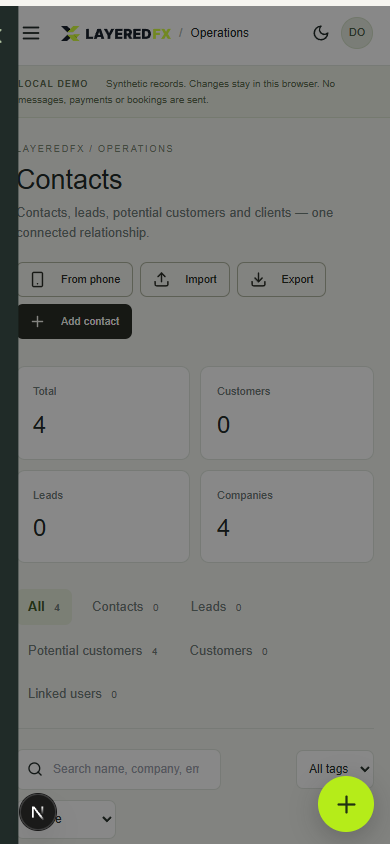
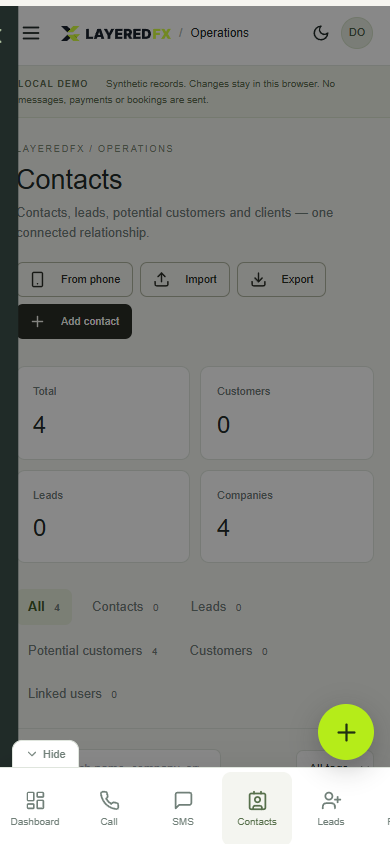
Fix duplicate branding and use full dashboard width

Changed region(s): [[0.0, 0.8318, 1.0, 1.0]]

diff --git a/components/operations/shell.tsx b/components/operations/shell.tsx
@@ -11,5 +11,5 @@ import {MobileBottomNav} from './mobile-bottom-nav';
 import {useOperations} from './provider';
 import {Button,DownloadButton,PageTitle,Panel,money,dateLabel} from './shared';
 import {needsNextStep,stats} from '@/lib/operations/engine.mjs';
-export function OperationsShell({children}:{children:React.ReactNode}){const path=usePathname();const {actor,mode,state,busy,error,notice,reload,clearError}=useOperations();const [mobile,setMobile]=useState(false);const [collapsed,setCollapsed]=useState(false);useEffect(()=>{setCollapsed(localStorage.getItem('lfx:dashboard:sidebar-collapsed')==='true');},[]);const [theme,setTheme]=useState('light');useEffect(()=>{setTheme(localStorage.getItem('lfx:dashboard:theme')||'light');},[]);return <div className={`lfx ops ${theme==='dark'?'dark':''} ${collapsed?'ops-sidebar-collapsed':''}`} data-role={actor.role}><aside id="dashboard-sidebar" className={`ops-sidebar ${mobile?'is-open':''}`}><Link href="/admin" className="ops-brand" aria-label="LayeredFX dashboard"><Image className="ops-brand-full" src={brand.dashboard.dark} alt="LayeredFX" width={519} height={72} priority style={{width:"100%",height:"auto"}}/><Image className="ops-brand-icon" src={brand.app} alt="" width={36} height={36}/><small>THE OPERATIONS STUDIO</small></Link><button className="ops-mobile-close" aria-label="Close navigation" onClick={()=>setMobile(false)}><X/></button><nav aria-label="Dashboard navigation">{dashboardNavigation.map(group=><section key={group.label}><p className="ops-sidebar-label">{group.label}</p>{group.items.map(n=>{const Icon=n.icon;const active=n.href==='/admin'?path===n.href:path.startsWith(n.href);return <Link key={n.href} href={n.href} className={active?'active':''} aria-label={n.label} title={collapsed?n.label:undefined} aria-current={active?'page':undefined} onClick={()=>setMobile(false)}><Icon size={18}/><span className="ops-nav-text">{n.label}</span>{n.label==='Pipeline'&&<span className="ops-nav-count">{state.deals.filter(d=>!d.archivedAt).length}</span>}</Link>;})}</section>)}</nav><div className="ops-sidebar-bottom"><p>Beautiful work.<br/><b>Thoughtfully organized.</b></p><Link href="/" aria-label="View website" title="View website"><span className="ops-nav-text">View website</span> <ArrowUpRight size={15}/></Link><small>{mode==='demo'?'Local demonstration':'LayeredFX data connection'}</small></div></aside>{mobile&&<button className="ops-nav-backdrop" aria-label="Close navigation" onClick={()=>setMobile(false)}/>}<div className="ops-app"><header className="ops-topbar"><button className="ops-sidebar-toggle" aria-controls="dashboard-sidebar" aria-expanded={!collapsed} aria-label={collapsed?'Expand sidebar':'Collapse sidebar'} title={collapsed?'Expand sidebar':'Collapse sidebar'} onClick={()=>{const next=!collapsed;setCollapsed(next);localStorage.setItem('lfx:dashboard:sidebar-collapsed',String(next));}}>{collapsed?<PanelLeftOpen size={20}/>:<PanelLeftClose size={20}/>}</button><button className="ops-menu" aria-label="Open navigation" onClick={()=>setMobile(true)}><Menu size={22}/></button><div><Image src={brand.dashboard[theme==='dark'?'dark':'light']} alt="LayeredFX" width={519} height={72} style={{display:"inline-block",width:110,height:"auto"}}/><span className="ops-topbar-divider">/</span><span>Operations</span></div><div className="ops-user"><button aria-label="Toggle dashboard theme" onClick={()=>{const next=theme==='dark'?'light':'dark';setTheme(next);localStorage.setItem('lfx:dashboard:theme',next);}}>{theme==='dark'?<Sun size={18}/>:<Moon size={18}/>}</button><span className="ops-save-status" role="status">{busy?'Saving…':notice||'Ready'}</span><span className="ops-avatar">{actor.name.split(' ').map(x=>x[0]).slice(0,2).join('')}</span><span>{actor.name}<small>{actor.role}</small></span>{mode==='supabase'&&<button onClick={async()=>{await fetch('/api/operations/auth/logout',{method:'POST',headers:{'Content-Type':'application/json'},body:'{}'});location.assign('/admin/login');}}>Sign out</button>}</div></header>{mode==='demo'&&<div className="ops-demo-banner"><b>LOCAL DEMO</b> Synthetic records. Changes stay in this browser. No messages, payments or bookings are sent.</div>}{error&&<div className="ops-global-error" role="alert"><p>{error}</p><div><button onClick={()=>void reload()}>Reload latest data</button><button onClick={clearError}>Dismiss</button></div></div>}<main className="ops-main" aria-busy={busy}>{children}</main><footer className="ops-app-footer">LayeredFX Operations<span>{mode==='demo'?'Preview data':'Authenticated data'} · Revision {state.revision}</span></footer></div><QuickActions/><MobileBottomNav/></div>;}
+export function OperationsShell({children}:{children:React.ReactNode}){const path=usePathname();const {actor,mode,state,busy,error,notice,reload,clearError}=useOperations();const [mobile,setMobile]=useState(false);const [collapsed,setCollapsed]=useState(false);useEffect(()=>{setCollapsed(localStorage.getItem('lfx:dashboard:sidebar-collapsed')==='true');},[]);const [theme,setTheme]=useState('light');useEffect(()=>{setTheme(localStorage.getItem('lfx:dashboard:theme')||'light');},[]);return <div className={`lfx ops ${theme==='dark'?'dark':''} ${collapsed?'ops-sidebar-collapsed':''}`} data-role={actor.role}><aside id="dashboard-sidebar" className={`ops-sidebar ${mobile?'is-open':''}`}><Link href="/admin" className="ops-brand" aria-label="LayeredFX dashboard"><Image className="ops-brand-full" src={brand.dashboard.dark} alt="LayeredFX" width={519} height={72} priority style={{width:"100%",height:"auto"}}/><Image className="ops-brand-icon" src={brand.app} alt="" width={36} height={36}/><small>THE OPERATIONS STUDIO</small></Link><button className="ops-mobile-close" aria-label="Close navigation" onClick={()=>setMobile(false)}><X/></button><nav aria-label="Dashboard navigation">{dashboardNavigation.map(group=><section key={group.label}><p className="ops-sidebar-label">{group.label}</p>{group.items.map(n=>{const Icon=n.icon;const active=n.href==='/admin'?path===n.href:path.startsWith(n.href);return <Link key={n.href} href={n.href} className={active?'active':''} aria-label={n.label} title={collapsed?n.label:undefined} aria-current={active?'page':undefined} onClick={()=>setMobile(false)}><Icon size={18}/><span className="ops-nav-text">{n.label}</span>{n.label==='Pipeline'&&<span className="ops-nav-count">{state.deals.filter(d=>!d.archivedAt).length}</span>}</Link>;})}</section>)}</nav><div className="ops-sidebar-bottom"><p>Beautiful work.<br/><b>Thoughtfully organized.</b></p><Link href="/" aria-label="View website" title="View website"><span className="ops-nav-text">View website</span> <ArrowUpRight size={15}/></Link><small>{mode==='demo'?'Local demonstration':'LayeredFX data connection'}</small></div></aside>{mobile&&<button className="ops-nav-backdrop" aria-label="Close navigation" onClick={()=>setMobile(false)}/>}<div className="ops-app"><header className="ops-topbar"><button className="ops-sidebar-toggle" aria-controls="dashboard-sidebar" aria-expanded={!collapsed} aria-label={collapsed?'Expand sidebar':'Collapse sidebar'} title={collapsed?'Expand sidebar':'Collapse sidebar'} onClick={()=>{const next=!collapsed;setCollapsed(next);localStorage.setItem('lfx:dashboard:sidebar-collapsed',String(next));}}>{collapsed?<PanelLeftOpen size={20}/>:<PanelLeftClose size={20}/>}</button><button className="ops-menu" aria-label="Open navigation" onClick={()=>setMobile(true)}><Menu size={22}/></button><div className="ops-topbar-title">Operations</div><div className="ops-user"><button aria-label="Toggle dashboard theme" onClick={()=>{const next=theme==='dark'?'light':'dark';setTheme(next);localStorage.setItem('lfx:dashboard:theme',next);}}>{theme==='dark'?<Sun size={18}/>:<Moon size={18}/>}</button><span className="ops-save-status" role="status">{busy?'Saving…':notice||'Ready'}</span><span className="ops-avatar">{actor.name.split(' ').map(x=>x[0]).slice(0,2).join('')}</span><span>{actor.name}<small>{actor.role}</small></span>{mode==='supabase'&&<button onClick={async()=>{await fetch('/api/operations/auth/logout',{method:'POST',headers:{'Content-Type':'application/json'},body:'{}'});location.assign('/admin/login');}}>Sign out</button>}</div></header>{mode==='demo'&&<div className="ops-demo-banner"><b>LOCAL DEMO</b> Synthetic records. Changes stay in this browser. No messages, payments or bookings are sent.</div>}{error&&<div className="ops-global-error" role="alert"><p>{error}</p><div><button onClick={()=>void reload()}>Reload latest data</button><button onClick={clearError}>Dismiss</button></div></div>}<main className="ops-main" aria-busy={busy}>{children}</main><footer className="ops-app-footer">LayeredFX Operations<span>{mode==='demo'?'Preview data':'Authenticated data'} · Revision {state.revision}</span></footer></div><QuickActions/><MobileBottomNav/></div>;}
 export function OperationsOverview(){const {state,actor,mode}=useOperations();const s=stats(state.deals);const activePlans=new Set(state.plans.filter(p=>!p.archived_at).map(p=>p.id));const tasks=state.tasks.filter(t=>activePlans.has(t.plan_id)&&t.status!=='complete');return <><PageTitle title="Make room for great work." description="Your opportunities, documents, and installation plans—connected in one place."><DownloadButton name="layeredfx-operations-export.json" data={{exportedAt:new Date().toISOString(),mode,state}} label="Export visible data"/></PageTitle><div className="ops-overview-hero"><div><p className="ops-eyebrow">THE NEXT LAYER</p><h2>From first conversation<br/>to the final finish.</h2><p>Know what comes next. Keep the context close.</p><Button asChild variant="light"><Link href="/admin/pipeline">Open pipeline <ArrowUpRight size={16}/></Link></Button></div><div className="ops-hero-metric"><span>Open opportunities</span><b>{money(s.openValue)}</b><small>{s.openCount} active opportunities</small></div></div><div className="ops-stats"><div><span>Needs a next step</span><b>{state.deals.filter(d=>!d.archivedAt&&needsNextStep(d)).length}</b></div><div><span>Workspace documents</span><b>{state.documents.filter(d=>!d.archived_at).length}</b></div><div><span>Active plans</span><b>{state.plans.filter(p=>!p.archived_at).length}</b></div><div><span>Open tasks</span><b>{tasks.length}</b></div></div><div className="ops-two-columns"><Panel title="Upcoming tasks" action={<Link href="/admin/plans">View plans</Link>}>{tasks.slice().sort((a,b)=>(a.due_date||'9999').localeCompare(b.due_date||'9999')).slice(0,6).map(t=><Link className="ops-record-row" key={t.id} href={`/admin/plans/${t.plan_id}`}><div><b>{t.title}</b><small>{state.plans.find(p=>p.id===t.plan_id)?.name}</small></div><span>{dateLabel(t.due_date)}</span></Link>)}{!tasks.length&&<p className="ops-muted">No open tasks yet.</p>}</Panel><Panel title="Your documents" action={<Link href="/admin/workspace">Open workspace</Link>}>{state.documents.filter(d=>!d.archived_at).slice(0,5).map(d=><Link className="ops-record-row" key={d.id} href={`/admin/workspace/${d.id}`}><FileText size={17}/><div><b>{d.title}</b><small>{d.owner_name} · {d.scope}</small></div><ArrowUpRight size={16}/></Link>)}<p className="ops-muted">Signed in as {actor.name}. Private documents and plans are filtered by access before being returned from the live API.</p></Panel></div></>;}

diff --git a/components/admin/dashboard.css b/components/admin/dashboard.css
@@ -23,7 +23,11 @@
 .ops-sidebar nav::-webkit-scrollbar-thumb{background:#657d6b;border-radius:999px}
 .ops-sidebar nav::-webkit-scrollbar-thumb:hover{background:#a4bc8d}
 .ops-sidebar nav::-webkit-scrollbar-button{display:none}
-.ops-brand-icon{display:none}
+.ops .ops-brand-icon{display:none}
+.ops .ops-main{width:100%;max-width:none;margin:0;padding-inline:28px}
+.ops .ops-topbar{justify-content:flex-start}
+.ops .ops-topbar .ops-user{margin-left:auto}
+@media(max-width:760px){.ops .ops-main{padding-inline:16px}}
 .ops-sidebar nav a .ops-nav-text{background:none;color:inherit;border-radius:0;padding:0;margin:0;min-width:0;font:inherit}
 .ops-sidebar nav a svg{flex-shrink:0}
 .ops-sidebar-toggle{display:inline-flex;align-items:center;justify-content:center;width:36px;height:36px;flex-shrink:0;border:1px solid var(--ops-line);border-radius:8px;background:var(--ops-surface);color:var(--ops-ink)}

diff --git a/docs/reviews/current-review.md b/docs/reviews/current-review.md
@@ -1,4 +1,14 @@
-# LayeredFX integration review — mobile menu checkpoint, 2026-09-10
+# LayeredFX integration review — width and logo checkpoint, 2026-09-10
+
+| Severity | File / evidence | Fix | Verification / remaining blockers |
+|---|---|---|---|
+| LOW | `components/admin/dashboard.css`: `.lfx img` overrode the less-specific icon hide rule, showing both sidebar images | Scope the default hidden app icon to `.ops .ops-brand-icon`; preserve collapsed-state override | Exactly one visible brand image verified expanded, collapsed and mobile |
+| LOW | `components/operations/shell.tsx`: redundant top-bar logo | Remove top-bar image and divider; left-align Operations alongside the toggle | No top-bar images in browser checks |
+| LOW | `.ops-main` inherited a 1750px centered width cap | Full available width with 28px desktop gutters, 16px mobile gutters | Customers, Messages and Dashboard verified at 3808px wide, expanded and collapsed; mobile overflow check passed |
+
+Validation: npm install, all 131 tests, typecheck, lint and production build passed (existing lint warnings remain). Exact output: `logs/layout-install.txt`, `logs/*-verified.txt`. Browser evidence: `logs/layout-browser.json`, `screenshots/layout-*.png`. Homepage logo remains visible. Previous backend/provider limitations below are unchanged.
+
+## Previous mobile menu checkpoint
 
 | Severity | File / evidence | Fix | Verification / remaining blockers |
 |---|---|---|---|

diff --git a/docs/logos/README.md b/docs/logos/README.md
@@ -3,7 +3,7 @@
 Original user-supplied assets are preserved here. Runtime copies are served from `/brand/` in `public/brand`; `lib/brand.ts` is the shared mapping. Dark/light filenames describe the background the artwork is intended for.
 
 - Public header/footer use the light outline logo; the shared Logo component supports the dark outline variant with `inverted`.
-- Dashboard sidebar uses the dark simple logo on its permanent dark surface. The top bar switches simple logos with the dashboard theme. Sign-in uses the light simple logo.
+- Dashboard sidebar uses the dark simple logo on its permanent dark surface, replaced by the app icon when collapsed. The top bar has no duplicate logo. Sign-in uses the light simple logo.
 - Browser favicons select the supplied PNG by the browser's preferred color scheme. The web manifest uses the supplied SVG app icon.
 - Both email PNGs are publicly available. `emailLogoUrl(siteUrl, background)` produces an absolute URL for email templates. No active email renderer or delivery provider exists to connect them to yet.
 
